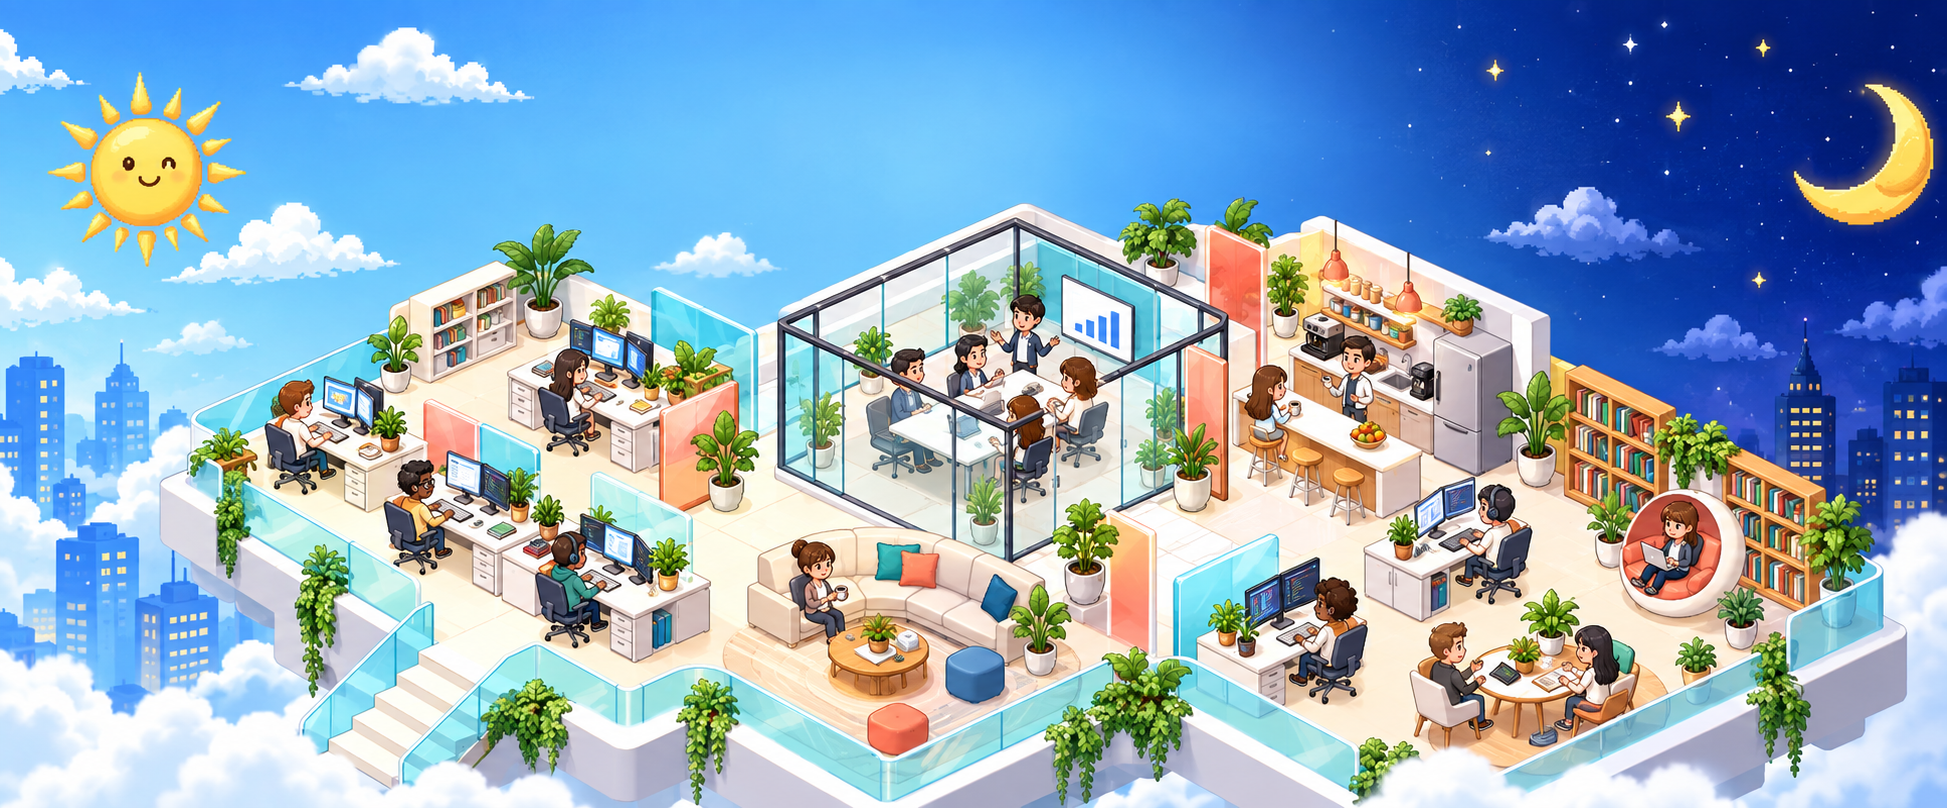
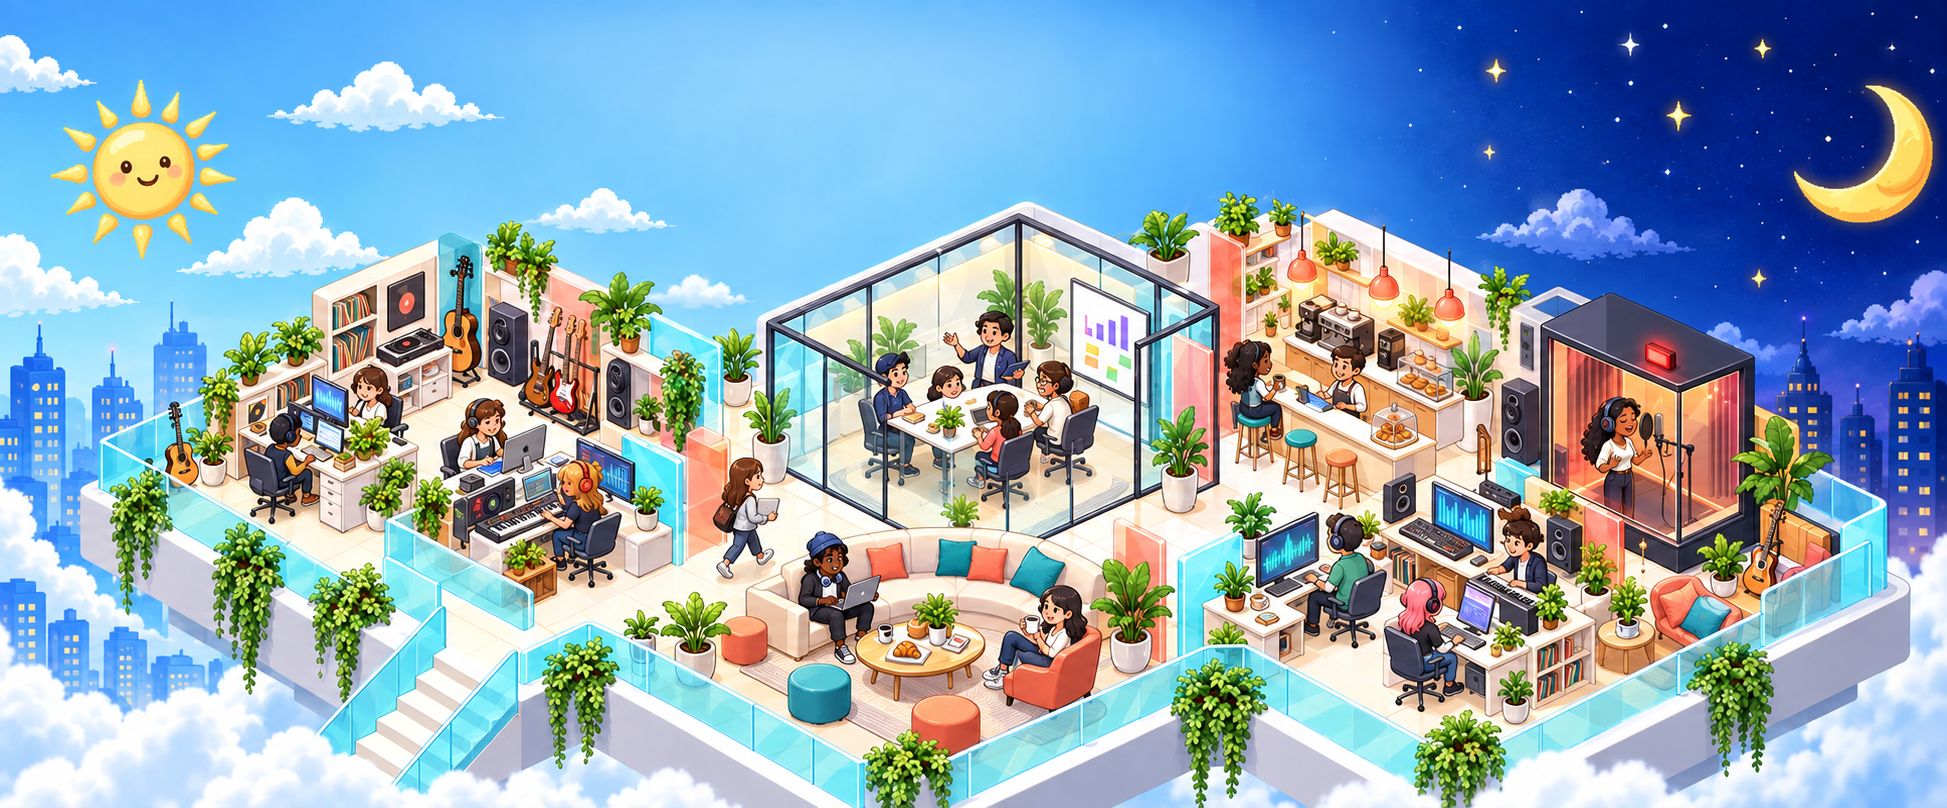
Make music studio background and agent behavior active

diff --git a/src/ThreeOffice.jsx b/src/ThreeOffice.jsx
@@ -18,7 +18,7 @@ function desk(scene,x,z,color='#c68d60'){ box(scene,[1.25,.12,.62],[x,.72,z],col
 function plant(scene,x,z){ const pot=box(scene,[.25,.22,.25],[x,.22,z],'#e7a56c'); const stem=new THREE.Mesh(new THREE.CylinderGeometry(.025,.025,.5,8),new THREE.MeshStandardMaterial({color:'#5c9e6d'})); stem.position.set(x,.55,z);scene.add(stem); for(let i=0;i<4;i++){const leaf=new THREE.Mesh(new THREE.SphereGeometry(.13,8,6),new THREE.MeshStandardMaterial({color:i%2?'#65b978':'#4e9968'}));leaf.scale.set(.7,.35,1);leaf.position.set(x+(i-1.5)*.09,.78,z+(i%2-.5)*.08);scene.add(leaf)} }
 
 export default function ThreeOffice({agents, chosen, selected, setSelected, paused, setPaused, speed, setSpeed, progress, officeTime, setReportOpen, reportOpen, reportsCount, reports, filter, setFilter, activeReport, setActiveReport}) {
-  const mount=useRef(null), groups=useRef(new Map()), agentsRef=useRef(agents); const [showScene,setShowScene]=useState(false)
+  const mount=useRef(null), groups=useRef(new Map()), agentsRef=useRef(agents); const [showScene,setShowScene]=useState(true)
   useEffect(()=>{
     const el=mount.current; const scene=new THREE.Scene(); scene.background=new THREE.Color('#15233b')
     const camera=new THREE.OrthographicCamera(-12,12,8,-8,.1,100); camera.position.set(15,16,15); camera.lookAt(0,0,0)
@@ -37,10 +37,10 @@ export default function ThreeOffice({agents, chosen, selected, setSelected, paus
     box(scene,[2.5,.35,1.4],[-6,.17,4.5],'#d6a06e'); box(scene,[2.1,.12,1.1],[-6,.38,4.5],'#e7be8a'); box(scene,[2.8,.9,.5],[-7,.55,-4.8],'#9d6d50'); box(scene,[2.8,.08,.65],[-7,1.04,-4.8],'#d9b37d'); plant(scene,-7.6,4.7); plant(scene,7.8,-4.8); plant(scene,8.2,4.2)
     box(scene,[2.4,1.2,.12],[-5.8,1.1,-5.9],'#25385c'); box(scene,[2.1,.75,.04],[-5.8,1.1,-5.82],'#60d7c8'); const sign=labelSprite('HWASEONG AI OFFICE','#25385c'); sign.position.set(0,1.65,-5.95);sign.scale.set(3,.5,1);scene.add(sign)
     const resize=()=>{const w=el.clientWidth,h=el.clientHeight;camera.left=-12*w/h;camera.right=12*w/h;camera.top=8;camera.bottom=-8;camera.updateProjectionMatrix();renderer.setSize(w,h)}; resize(); window.addEventListener('resize',resize)
-    let raf; const animate=()=>{raf=requestAnimationFrame(animate);controls.update();groups.current.forEach(g=>{const a=agentsRef.current.find(x=>x.id===g.userData.agentId);if(!a)return;const tx=(a.x-50)/5.3,tz=(a.y-50)/5.3;g.position.x+=(tx-g.position.x)*.08;g.position.z+=(tz-g.position.z)*.08;g.userData.tag.position.x=g.position.x;g.userData.tag.position.z=g.position.z;g.userData.taskTag.position.x=g.position.x;g.userData.taskTag.position.z=g.position.z;g.userData.tag.material.opacity=a.id===selected?1:.82;g.userData.taskTag.material.opacity=a.bubble?1:.76});renderer.render(scene,camera)}; animate()
+    let raf; const animate=()=>{raf=requestAnimationFrame(animate);controls.update();const now=performance.now();groups.current.forEach(g=>{const a=agentsRef.current.find(x=>x.id===g.userData.agentId);if(!a)return;const tx=(a.x-50)/5.3,tz=(a.y-50)/5.3,dx=tx-g.position.x,dz=tz-g.position.z,moving=Math.hypot(dx,dz)>.06;g.position.x+=dx*.08;g.position.z+=dz*.08;g.position.y=.05+(moving?Math.abs(Math.sin(now*.012))*.04:Math.sin(now*.002+g.position.x)*.012);g.rotation.y=moving?Math.atan2(dx,dz):Math.sin(now*.001)*.04;g.userData.tag.position.x=g.position.x;g.userData.tag.position.z=g.position.z;g.userData.tag.position.y=g.position.y+1.8;g.userData.taskTag.position.x=g.position.x;g.userData.taskTag.position.z=g.position.z;g.userData.taskTag.position.y=g.position.y+1.53;g.userData.tag.material.opacity=a.id===selected?1:.82;g.userData.taskTag.material.opacity=a.bubble?1:.76});renderer.render(scene,camera)}; animate()
     return()=>{cancelAnimationFrame(raf);window.removeEventListener('resize',resize);controls.dispose();renderer.dispose();el.removeChild(renderer.domElement);groups.current.clear()}
   },[])
   useEffect(()=>{agentsRef.current=agents;groups.current.forEach(g=>{const a=agents.find(x=>x.id===g.userData.agentId);if(a)g.userData.tag.material.map.needsUpdate=true})},[agents,selected])
   const filtered=filter==='전체'?reports:reports.filter(r=>r.type===filter)
-  return <main className="three-office"><header className="three-header"><div className="three-brand"><b>HWASEONG AI OFFICE</b><small>CREATIVE OPERATIONS / LIVE SIMULATION</small></div><div className="three-agents">{agents.slice(0,7).map(a=><button key={a.id} onClick={()=>setSelected(a.id)} className={selected===a.id?'active':''}><i style={{background:a.color}}/>{a.name}</button>)}</div><button className="view-toggle" onClick={()=>setShowScene(!showScene)}>{showScene?'REFERENCE ART':'3D SCENE'}</button><div className="three-live"><i/>{officeTime}</div></header><section className={`three-stage ${showScene?'is-live':'is-reference'}`}><div ref={mount} className="three-canvas"/>{!showScene&&<div className="agent-overlay">{agents.map((a,i)=><button key={a.id} className={selected===a.id?'active':''} style={{left:`${18+(a.x/100)*64}%`,top:`${15+(a.y/100)*70}%`}} onClick={()=>setSelected(a.id)}><i style={{background:a.color}}/><span>{a.name}</span></button>)}</div>}<aside className="three-inspector"><small>SELECTED AGENT</small><h2>{chosen.name}</h2><p>{chosen.role}</p><strong>{chosen.task}</strong><span>● 작업 중</span><button onClick={()=>setReportOpen(true)}>업무보고 {reportsCount}</button></aside><div className="three-toast">{chosen.bubble||'에이전트들이 각자의 책상에서 작업하고 있습니다.'}</div></section><footer className="three-footer"><button onClick={()=>setPaused(!paused)}>{paused?'재생':'일시정지'}</button>{[1,2,4].map(n=><button key={n} className={speed===n?'active':''} onClick={()=>setSpeed(n)}>{n}×</button>)}<div><small>PROJECT PROGRESS</small><b>{progress}%</b><i><em style={{width:`${progress}%`}}/></i></div><span>🎧 여기서 행복해 · Melody Sketch 01 <audio controls src={`${import.meta.env.BASE_URL}here_happy_hwaseong_demo.mp3`}/></span></footer>{reportOpen&&<div className="three-modal" onMouseDown={e=>e.target===e.currentTarget&&setReportOpen(false)}><section><header><b>업무보고 아카이브</b><button onClick={()=>setReportOpen(false)}>×</button></header><nav>{['전체','전략','브리프','가사','평가','유사성','기술','음원'].map(x=><button key={x} className={filter===x?'active':''} onClick={()=>setFilter(x)}>{x}</button>)}</nav><div className="three-reports"><div>{filtered.map(r=><button key={r.id} className={activeReport?.id===r.id?'active':''} onClick={()=>setActiveReport(r)}><b>{r.type}</b><strong>{r.title}</strong><small>{r.owner} · {r.status}</small></button>)}</div><article>{activeReport?<><b>{activeReport.team}</b><h2>{activeReport.title}</h2><p>{activeReport.summary}</p><ul>{activeReport.details.map(d=><li key={d}>{d}</li>)}</ul></>:<p>보고서를 선택하세요.</p>}</article></div></section></div>}</main>
+  return <main className="three-office"><header className="three-header"><div className="three-brand"><b>HWASEONG AI OFFICE</b><small>CREATIVE OPERATIONS / LIVE SIMULATION</small></div><div className="three-agents">{agents.slice(0,7).map(a=><button key={a.id} onClick={()=>setSelected(a.id)} className={selected===a.id?'active':''}><i style={{background:a.color}}/>{a.name}</button>)}</div><button className="view-toggle" onClick={()=>setShowScene(!showScene)}>{showScene?'MUSIC ART':'3D SCENE'}</button><div className="three-live"><i/>{officeTime}</div></header><section className={`three-stage ${showScene?'is-live':'is-reference'}`}><div ref={mount} className="three-canvas"/>{!showScene&&<div className="agent-overlay">{agents.map(a=><button key={a.id} className={selected===a.id?'active':''} style={{left:`${18+(a.x/100)*64}%`,top:`${15+(a.y/100)*70}%`}} onClick={()=>setSelected(a.id)}><i style={{background:a.color}}/><span>{a.name}</span></button>)}</div>}<aside className="three-inspector"><small>SELECTED AGENT</small><h2>{chosen.name}</h2><p>{chosen.role}</p><strong>{chosen.task}</strong><span>● {chosen.bubble?'동료와 의논 중':'집중 작업 중'}</span><button onClick={()=>setReportOpen(true)}>업무보고 {reportsCount}</button></aside><div className="three-toast">{chosen.bubble||'에이전트들이 작업·회의·이동을 이어가고 있습니다.'}</div></section><footer className="three-footer"><button onClick={()=>setPaused(!paused)}>{paused?'재생':'일시정지'}</button>{[1,2,4].map(n=><button key={n} className={speed===n?'active':''} onClick={()=>setSpeed(n)}>{n}×</button>)}<div><small>PROJECT PROGRESS</small><b>{progress}%</b><i><em style={{width:`${progress}%`}}/></i></div><span>🎧 여기서 행복해 · Melody Sketch 01 <audio controls src={`${import.meta.env.BASE_URL}here_happy_hwaseong_demo.mp3`}/></span></footer>{reportOpen&&<div className="three-modal" onMouseDown={e=>e.target===e.currentTarget&&setReportOpen(false)}><section><header><b>업무보고 아카이브</b><button onClick={()=>setReportOpen(false)}>×</button></header><nav>{['전체','전략','브리프','가사','평가','유사성','기술','음원'].map(x=><button key={x} className={filter===x?'active':''} onClick={()=>setFilter(x)}>{x}</button>)}</nav><div className="three-reports"><div>{filtered.map(r=><button key={r.id} className={activeReport?.id===r.id?'active':''} onClick={()=>setActiveReport(r)}><b>{r.type}</b><strong>{r.title}</strong><small>{r.owner} · {r.status}</small></button>)}</div><article>{activeReport?<><b>{activeReport.team}</b><h2>{activeReport.title}</h2><p>{activeReport.summary}</p><ul>{activeReport.details.map(d=><li key={d}>{d}</li>)}</ul></>:<p>보고서를 선택하세요.</p>}</article></div></section></div>}</main>
 }
